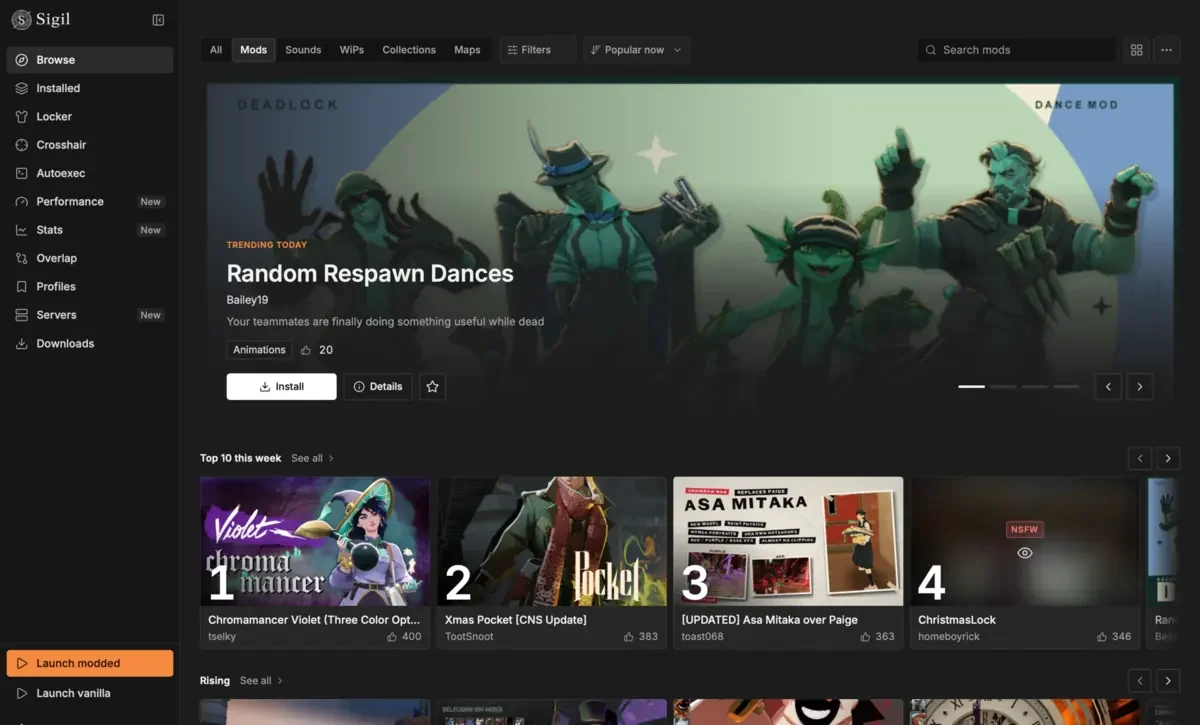
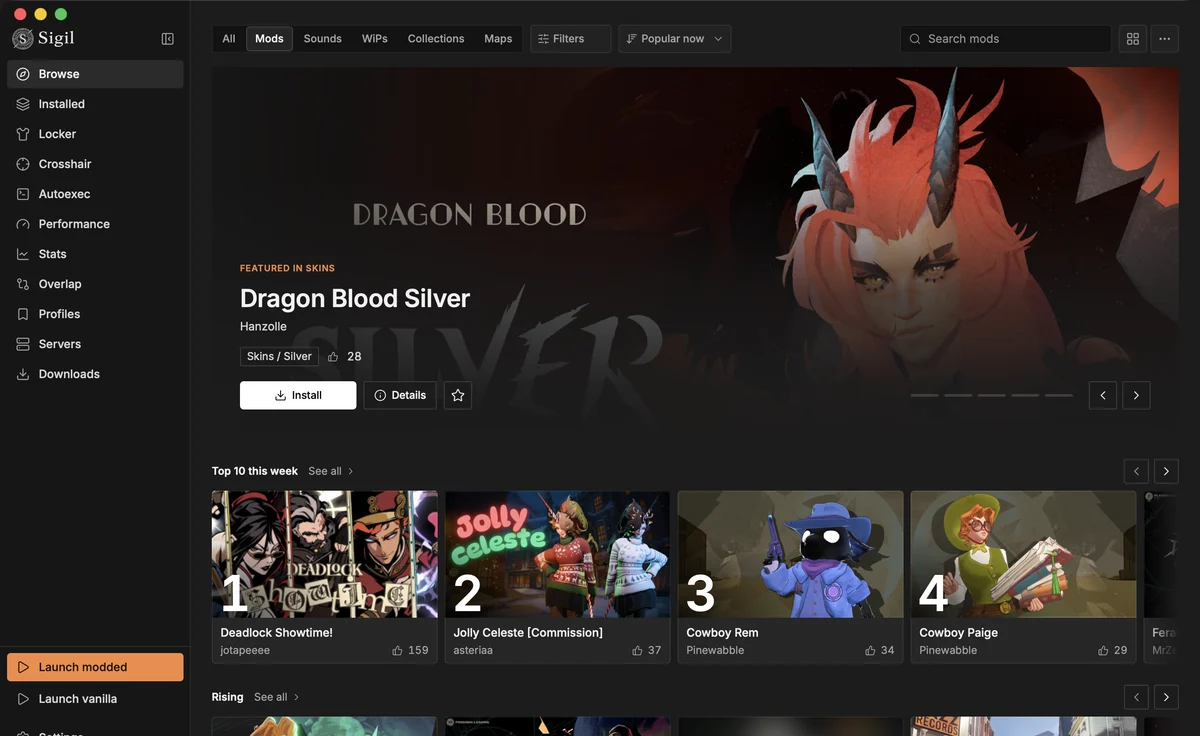
fix(site): current Browse screenshot in the hero

diff --git a/site/browse.html b/site/browse.html
@@ -85,7 +85,7 @@
     <h1 id="page-title" class="display">Browse and install Deadlock mods from GameBanana</h1>
     <div class="doc__body">
 <p>Sigil reads GameBanana&#x27;s Deadlock catalog live, so you can find a mod, read its page and install it without a browser or an unzip step.</p>
-<figure class="doc__fig"><img class="shot" src="/img/hero-1200.webp" width="1200" height="725" loading="eager" fetchpriority="high" decoding="async" alt="Sigil&#x27;s Browse page with a trending banner, a top ten for the week and a row of rising mods."></figure>
+<figure class="doc__fig"><img class="shot" src="/img/hero-1200.webp" width="1200" height="736" loading="eager" fetchpriority="high" decoding="async" alt="Sigil&#x27;s Browse page with a trending banner, a top ten for the week and a row of rising mods."></figure>
 <h2 id="finding-a-mod">Finding a mod</h2>
 <p>The landing page shows the week&#x27;s top mods, trending rails, a Browse by hero rail and featured picks. Tabs split mods, sounds and work in progress. On the left you can pick a category, a subcategory or a hero; a hero pick also finds that hero&#x27;s sounds and HUD work.</p>
 <p>Filters cover NSFW content, outdated mods, whether a mod is already installed and featured mods. Sort by newest, recently updated, most liked, most viewed, most downloaded or name, and limit results to a date window. Active filters show as chips you can remove one at a time. Favorites are saved on your PC, and mods or creators you hide stay out of the way until you bring them back.</p>

diff --git a/site/index.html b/site/index.html
@@ -167,7 +167,7 @@
       <div class="wrap"><div class="stage__card">
         <picture>
           <source media="(max-width: 640px)" srcset="/img/hero-phone.webp" width="1000" height="833">
-          <img class="shot shot--hero" src="/img/hero.webp" srcset="/img/hero-1200.webp 1200w, /img/hero.webp 2400w" sizes="(max-width: 1264px) calc(100vw - 64px), 1200px" width="2400" height="1450" alt="Sigil&#x27;s Browse page: GameBanana mods with a trending banner, a top ten for the week, and Launch modded in the sidebar." fetchpriority="high">
+          <img class="shot shot--hero" src="/img/hero.webp" srcset="/img/hero-1200.webp 1200w, /img/hero.webp 2400w" sizes="(max-width: 1264px) calc(100vw - 64px), 1200px" width="2400" height="1472" alt="Sigil&#x27;s Browse page: GameBanana mods with a featured banner, a top ten for the week, and Launch modded in the sidebar." fetchpriority="high">
         </picture>
       </div></div>
     </div>

diff --git a/site/build.py b/site/build.py
@@ -70,7 +70,7 @@ HOME = {
     "h1": "Install Deadlock mods and keep them working.",
     "sub": "Sigil is a free open-source Deadlock mod manager.",
     "hero_alt": (
-        "Sigil's Browse page: GameBanana mods with a trending banner, a top ten for the week, and "
+        "Sigil's Browse page: GameBanana mods with a featured banner, a top ten for the week, and "
         "Launch modded in the sidebar."
     ),
     "rows": [
@@ -512,7 +512,7 @@ def build_home(pages):
       <div class="wrap"><div class="stage__card">
         <picture>
           <source media="(max-width: 640px)" srcset="/img/hero-phone.webp" width="1000" height="833">
-          <img class="shot shot--hero" src="/img/hero.webp" srcset="/img/hero-1200.webp 1200w, /img/hero.webp 2400w" sizes="(max-width: 1264px) calc(100vw - 64px), 1200px" width="2400" height="1450" alt="{esc(HOME["hero_alt"])}" fetchpriority="high">
+          <img class="shot shot--hero" src="/img/hero.webp" srcset="/img/hero-1200.webp 1200w, /img/hero.webp 2400w" sizes="(max-width: 1264px) calc(100vw - 64px), 1200px" width="2400" height="1472" alt="{esc(HOME["hero_alt"])}" fetchpriority="high">
         </picture>
       </div></div>
     </div>
